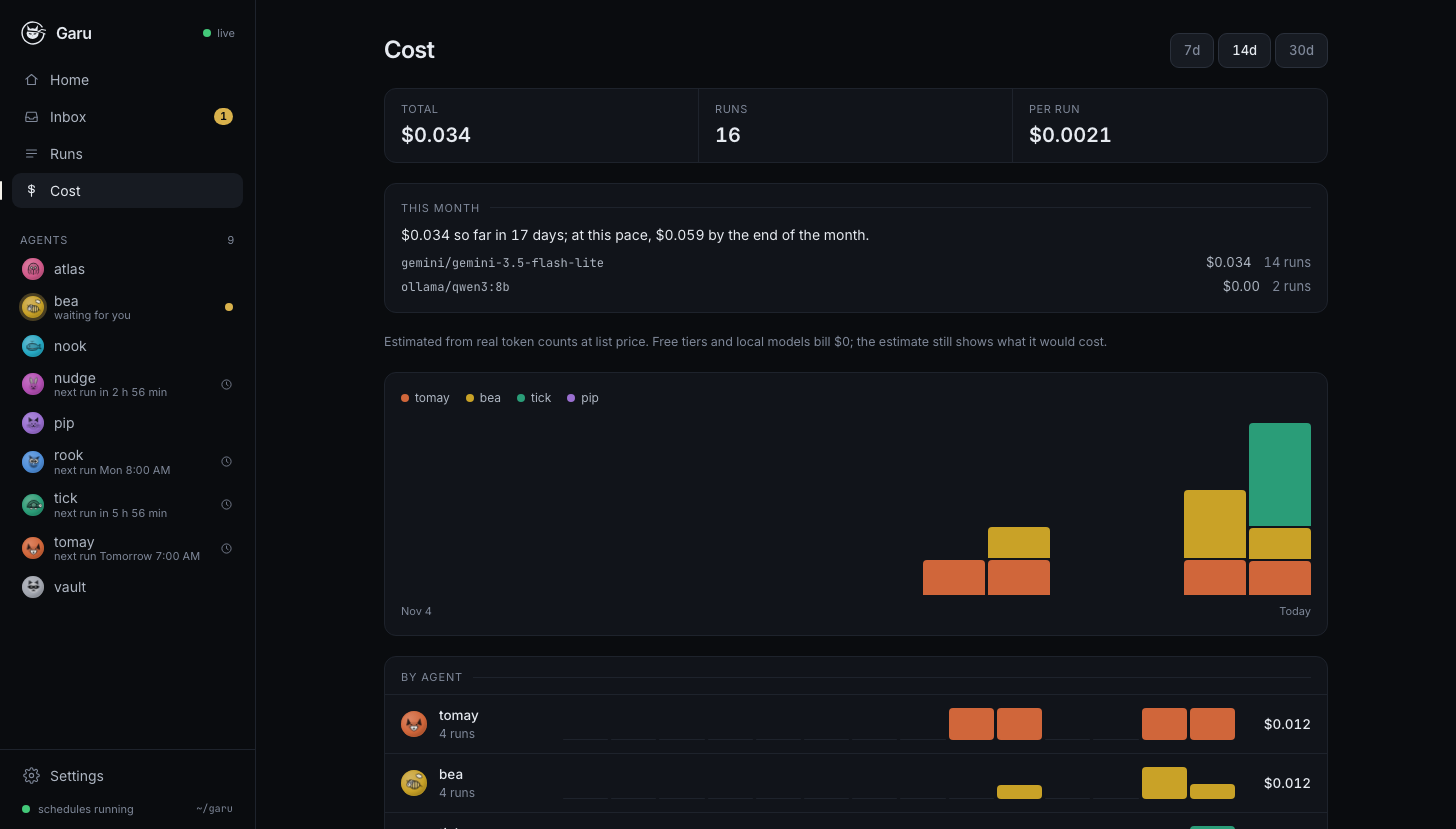
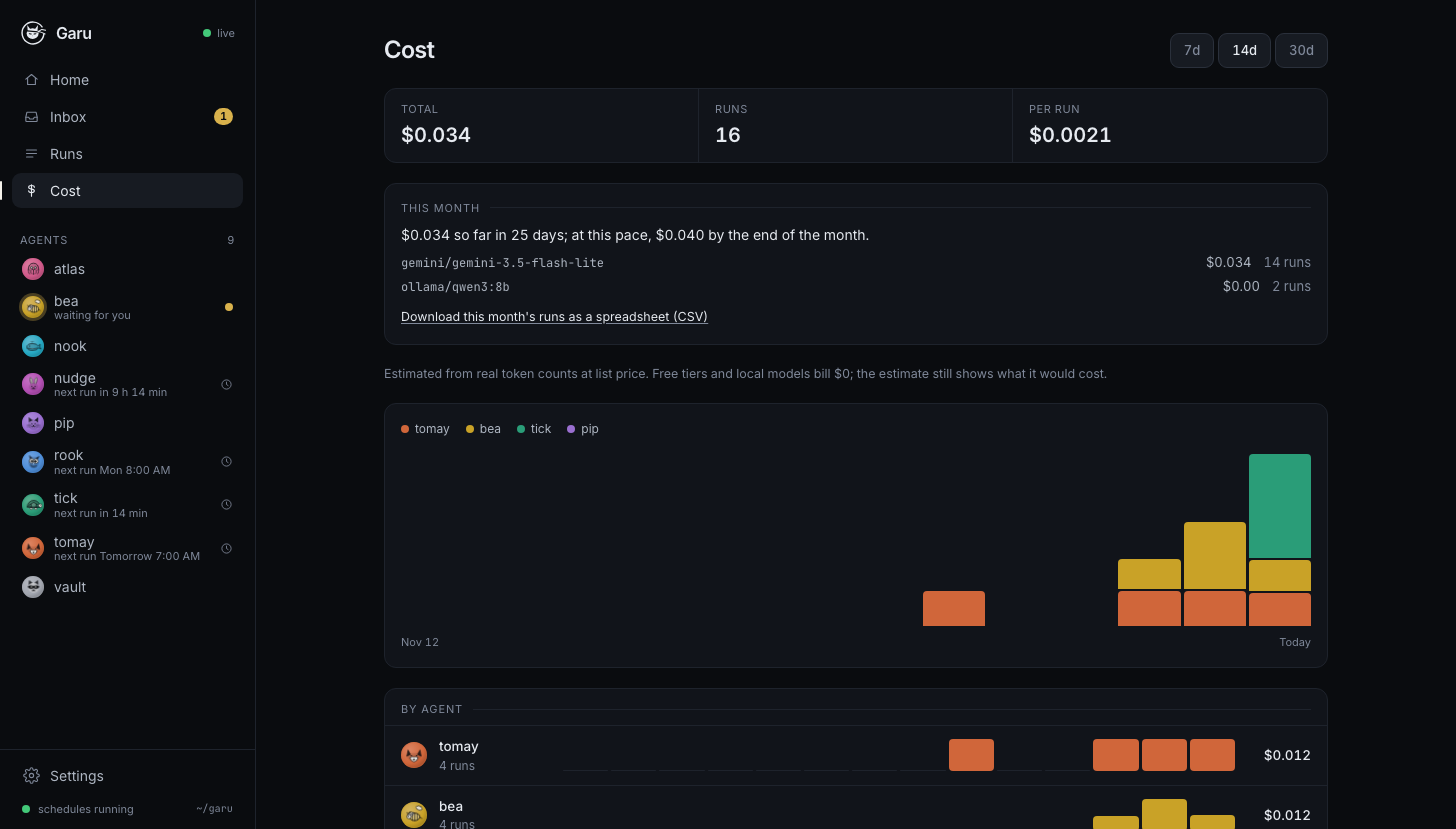
readme and site: what the page does now
Both READMEs tell what moved onto the page since the video: a new agent, its job, its
retirement, a call to try, rules that never win, the sign-in button, backups, the
month's budget and the sheet, the pushes, and "while you were away"; the command table
gains garu try and the roadmap paragraph catches up. The site's budget card mentions
the month. The README shots are retaken on today's build, with a new one of the New
agent page.

diff --git a/docs/index.es.html b/docs/index.es.html
@@ -195,7 +195,7 @@
     <div class="card"><div class="tag ask">ask</div><h3>Una bandeja, no una avalancha</h3><p>Cuando una regla dice preguntar, la ejecución se pausa. Ves el correo como un correo, el archivo como un archivo, el borrador como un borrador. Aprueba una vez, edita el borrador y aprueba tu versión, aprueba por 24 horas, o rechaza con una nota que el agente lee. El silencio es un no, y una ejecución que pregunta se aparca y te espera un día.</p></div>
     <div class="card"><div class="tag block">block</div><h3>Una política que aprende, contigo al mando</h3><p>Aprueba lo mismo tres veces y Garu propone la regla más estrecha que cubre exactamente lo que aprobaste, y la escribe en tu archivo cuando tú lo digas. Los comentarios se conservan.</p></div>
     <div class="card"><div class="tag">caja negra</div><h3>Una caja negra</h3><p>Cada turno del modelo, cada llamada a una herramienta, cada decisión y cada aprobación en un registro al que solo se agrega, un archivo por ejecución. Repasa cualquier ejecución como una línea de tiempo, en el navegador o con <code>garu log</code>, y cada ejecución dice por qué hizo eso: qué pasó, qué te preguntó, qué se bloqueó, qué la detuvo (<code>garu why</code>).</p></div>
-    <div class="card"><div class="tag">$ tope</div><h3>Un presupuesto en cada ejecución</h3><p>El costo se estima a partir de los tokens reales a precio de lista. Una ejecución se detiene en el momento en que cruzaría <code>maxCostUsd</code>. Los modelos locales cobran $0 y aun así muestran lo que habría costado.</p></div>
+    <div class="card"><div class="tag">$ tope</div><h3>Un presupuesto en cada ejecución</h3><p>El costo se estima a partir de los tokens reales a precio de lista. Una ejecución se detiene en el momento en que cruzaría <code>maxCostUsd</code>; el mes tiene su propio número, y el teléfono avisa al 80% y al 100%. Los modelos locales cobran $0 y aun así muestran lo que habría costado.</p></div>
     <div class="card"><div class="tag">aislado</div><h3>Cualquier modelo, en una caja</h3><p>Gemini en el nivel gratuito, Claude, Ollama en tu laptop, o cualquier cosa que hable la API de OpenAI: una línea para cambiar. Cada servidor de herramientas puede correr en su propio contenedor de Docker: sin red, raíz de solo lectura, solo la carpeta de trabajo del agente montada.</p></div>
   </div>
 </section>

diff --git a/docs/index.html b/docs/index.html
@@ -195,7 +195,7 @@
     <div class="card"><div class="tag ask">ask</div><h3>An inbox, not a firehose</h3><p>When a rule says ask, the run pauses. You see the email as an email, the file as a file, the draft as a draft. Approve once, edit the draft and approve your version, approve for 24 hours, or decline with a note the agent reads. Silence is a deny, and a run that asks parks and waits a day for you.</p></div>
     <div class="card"><div class="tag block">block</div><h3>Policy that learns, with you in control</h3><p>Approve the same thing three times and Garu proposes the narrowest rule that covers exactly what you approved, and writes it into your file when you say so. Comments preserved.</p></div>
     <div class="card"><div class="tag">recorder</div><h3>A flight recorder</h3><p>Every model turn, tool call, decision and approval in an append-only log, one file per run. Replay any run as a timeline, in the browser or with <code>garu log</code>, and every run says why it did that: what went through, what asked you, what was blocked, what stopped it (<code>garu why</code>).</p></div>
-    <div class="card"><div class="tag">$ cap</div><h3>A budget on every run</h3><p>Cost is estimated from real token counts at list price. A run stops the moment it would cross <code>maxCostUsd</code>. Local models bill $0 and still show what it would have cost.</p></div>
+    <div class="card"><div class="tag">$ cap</div><h3>A budget on every run</h3><p>Cost is estimated from real token counts at list price. A run stops the moment it would cross <code>maxCostUsd</code>; a month has its own number, with the phone told at 80% and 100%. Local models bill $0 and still show what it would have cost.</p></div>
     <div class="card"><div class="tag">sandbox</div><h3>Any model, in a box</h3><p>Gemini on the free tier, Claude, Ollama on your laptop, or anything that speaks the OpenAI API — one line to switch. Each tool server can run in its own Docker container: no network, read-only root, only the agent's workspace mounted.</p></div>
   </div>
 </section>

diff --git a/README.es.md b/README.es.md
@@ -265,6 +265,10 @@ La cabecera de la ejecución lleva un reloj honesto: "tardó 1 h 10 min, 59 min 
 
 Los agentes están ahí, además: cada cara se mueve a su manera (la abeja flota, la tortuga camina, el zorro respira, el conejo salta), un agente trabajando respira con un anillo girando a su alrededor, y uno que te espera toca a la puerta. La página de cada agente tiene dos frases para empezar sobre su caja de mensajes, de su propio trabajo, y en la computadora cambias ahí mismo su horario, sus topes, su libreta y sus reglas; el Garufile conserva tus comentarios. Ajustes tiene "Revisar esta computadora", `garu doctor` en un botón.
 
+Desde entonces la página se quedó con el resto. "Nuevo agente" pregunta lo que pregunta `garu new` (qué debe hacer, una cara, cuándo, qué modelo, qué puede tocar, los topes) y escribe el Garufile con su política cerrada; "Cambiar lo que hace" abre la descripción y el prompt; "Retirar" aparta a un agente conservando sus ejecuciones; "Probar una llamada" dice qué harían las reglas con una herramienta y sus argumentos y qué regla decide, y una regla que nunca puede ganar (una debajo de otra más amplia, o que nombra un servidor que el archivo no tiene) lo dice en el editor y en `garu doctor`. Desde el sexto día, un inicio de sesión de Google se renueva con un botón: Google se abre en una pestaña y vuelve solo. Ajustes hace una copia de `.garu` al momento y lista las más recientes con su descarga; la página de Costo muestra el mes frente a `GARU_MONTHLY_BUDGET_USD` y entrega las ejecuciones del mes como hoja de cálculo. El teléfono oye más que preguntas: una ejecución que se detuvo sola, una vez al día por agente con el motivo y un enlace; el 80% y el 100% del presupuesto del mes; un inicio de sesión por vencer. Y tras seis horas fuera, Inicio abre con lo que pasó mientras tanto: las ejecuciones que se detuvieron y las preguntas que vencieron.
+
+<p align="center"><img src="docs/screenshots/new-agent.png" alt="La página Nuevo agente: qué debe hacer, doce caras para elegir, un nombre, cuándo corre, qué modelo, qué puede tocar, los topes y una libreta" width="900"></p>
+
 <p align="center"><img src="docs/screenshots/why.png" alt="La página de una ejecución: la cabecera dice que tardó unos segundos, 40 minutos de ellos con la computadora dormida, y aparcada 3 horas esperando tu respuesta; debajo, por qué hizo eso: ocho llamadas pasaron por su cuenta, una preguntó y fue aprobada, una fue bloqueada" width="900"></p>
 
 ## Comandos
@@ -281,6 +285,7 @@ Los agentes están ahí, además: cada cara se mueve a su manera (la abeja flota
 | `garu grants [list\|revoke <id>]` | Permisos temporales. |
 | `garu log [agent] [run]` | Repasa una caja negra. |
 | `garu why <agent> [run]` | Por qué una ejecución hizo lo que hizo: qué pasó, qué te preguntó, qué se bloqueó, qué la detuvo. |
+| `garu try <agent> <servidor.herramienta> [json]` | Qué harían las reglas del agente con esa llamada, qué regla decide y por qué, sin ejecutar nada; y cualquier regla del archivo que nunca pueda ganar. |
 | `garu weekly [--post]` | La semana en números, por agente: ejecuciones, cómo terminaron, cuáles te preguntaron, lo que costó, notas recordadas. Con `GARU_WEEKLY_WEBHOOK_URL` en `.env`, la sala de control la publica en ese canal cada domingo a las seis; `--post` la envía ahora. |
 | `garu prune [--keep 90d] [--yes]` | Dice qué registros de ejecución, peticiones resueltas de la bandeja y mensajes de chat son más antiguos que la ventana, y los borra con `--yes`. `--prune 90d` en `garu ui` o `service install` lo hace una vez al día; una ejecución aparcada nunca se toca. Sin esto, todas las ejecuciones se guardan para siempre. |
 | `garu status` | El inicio, en la terminal: cada agente con qué hace, cuándo corre de nuevo, cómo fue su última ejecución y qué te espera. |
@@ -304,7 +309,7 @@ Garu tiene tres semanas de vida y ya ejecuta los agentes del autor todos los dí
 2. **Garu alojado:** agentes que siguen corriendo con la laptop cerrada, aprobar con un toque desde donde sea, pensado para la UE de forma predeterminada.
 3. Delegación entre agentes por A2A; memoria transparente y editable.
 
-Hecho desde el primer commit: Gmail y Google Calendar a través del servidor propio de Garu, con inicio de sesión para servidores locales; servidores MCP remotos (Streamable HTTP + OAuth), la app del teléfono por Tailscale con un token de inicio de sesión ([docs/phone.es.md](docs/phone.es.md)), la sala de control como app nativa para Android y iPhone ([docs/android.md](docs/android.md), [docs/ios.md](docs/ios.md)), `garu new`, personajes, rechazar con nota; después una libreta por agente, un tope de ejecuciones al día, preguntas que esperan un día mientras la ejecución se aparca, "Por qué hizo eso" en cada ejecución y en `garu why`, un reloj honesto (dormida, aparcada, empezó tarde), la nota del domingo, la limpieza, `garu doctor` y `garu status`, y un aviso cuando Tailscale deja de servir al teléfono.
+Hecho desde el primer commit: Gmail y Google Calendar a través del servidor propio de Garu, con inicio de sesión para servidores locales; servidores MCP remotos (Streamable HTTP + OAuth), la app del teléfono por Tailscale con un token de inicio de sesión ([docs/phone.es.md](docs/phone.es.md)), la sala de control como app nativa para Android y iPhone ([docs/android.md](docs/android.md), [docs/ios.md](docs/ios.md)), `garu new`, personajes, rechazar con nota; después una libreta por agente, un tope de ejecuciones al día, preguntas que esperan un día mientras la ejecución se aparca, "Por qué hizo eso" en cada ejecución y en `garu why`, un reloj honesto (dormida, aparcada, empezó tarde), la nota del domingo, la limpieza, `garu doctor` y `garu status`, y un aviso cuando Tailscale deja de servir al teléfono; después un agente nuevo, su trabajo, su retiro, una llamada de prueba y copias de seguridad desde la página, un inicio de sesión de Google renovado con un botón, avisos por una ejecución que se detuvo y por el presupuesto del mes, "mientras no estabas" en Inicio, y reglas que nunca ganan señaladas en el editor y por `garu try`.
 
 La app de Android está en prueba cerrada en Google Play desde el 2026-10-15 con doce probadores; la segunda solicitud de producción va después del 2026-11-15, con las respuestas de los probadores y la versión que salió de ellas. La app de iPhone corre en el simulador y espera una cuenta de desarrollador de Apple.
 

diff --git a/README.md b/README.md
@@ -262,6 +262,10 @@ The run's header keeps an honest clock: "took 1 h 10 min, 59 min of it with the 
 
 The agents are there, too: each face moves its own way (the bee hovers, the turtle plods, the fox breathes, the rabbit hops), an agent at work breathes with a ring circling it, and one waiting on you knocks. Each agent's page has two openers above its message box, from its own job, and on the desktop you change its schedule, its caps, its notebook and its rules right there; the Garufile keeps your comments. Settings has "Check this computer", `garu doctor` on a button.
 
+Since then the page took over the rest. "New agent" asks what `garu new` asks (what it should do, a face, when, which model, what it may touch, the caps) and writes the Garufile with its closed policy; "Change what it does" opens the description and the prompt; "Retire" moves an agent aside with its runs kept; "Try a call" says what the rules would do with a tool and arguments and which rule decides, and a rule that can never win (one under a broader rule, or naming a server the file doesn't have) says so in the editor and in `garu doctor`. From day six a Google sign-in renews with a button, Google opening in a tab and coming back on its own. Settings makes a backup of `.garu` on the spot and lists the newest with a download; the Cost page shows the month against `GARU_MONTHLY_BUDGET_USD` and hands the month's runs out as a spreadsheet. The phone hears more than asks: a run that stopped on its own, once a day per agent with the reason and a link; 80% and 100% of the month's budget; a sign-in about to end. And after six hours away, Home opens with what happened meanwhile: the runs that stopped and the asks that expired.
+
+<p align="center"><img src="docs/screenshots/new-agent.png" alt="The New agent page: what it should do, twelve faces to pick from, a name, when it runs, which model, what it may touch, the caps and a notebook" width="900"></p>
+
 <p align="center"><img src="docs/screenshots/why.png" alt="A run's page: the header says it took a few seconds, 40 minutes of it with the computer asleep, and parked 3 hours for your answer; below, why it did that: eight calls went through on their own, one asked and was approved, one was blocked" width="900"></p>
 
 ## Commands
@@ -278,6 +282,7 @@ The agents are there, too: each face moves its own way (the bee hovers, the turt
 | `garu grants [list\|revoke <id>]` | Temporary allows. |
 | `garu log [agent] [run]` | Replay a flight recorder. |
 | `garu why <agent> [run]` | Why a run did what it did: what went through, what asked you, what was blocked, what stopped it. |
+| `garu try <agent> <server.tool> [json]` | What the agent's rules would do with that call, which rule decides and why, without a run; and any rule in the file that can never win. |
 | `garu weekly [--post]` | The week in numbers, per agent: runs, how they ended, what asked you, what it cost, notes remembered. With `GARU_WEEKLY_WEBHOOK_URL` in `.env`, the control room posts it to that channel every Sunday at six; `--post` sends it now. |
 | `garu prune [--keep 90d] [--yes]` | Say which run logs, settled inbox requests and chat messages are older than the window, and delete them with `--yes`. `--prune 90d` on `garu ui` or `service install` does it once a day; a parked run is never touched. Without it, every run is kept forever. |
 | `garu status` | Home for the terminal: every agent with what it's doing, when it runs next, how its last run went, and what's waiting on you. |
@@ -301,7 +306,7 @@ Garu is three weeks old and already runs the author's own agents every day. Expe
 2. **Hosted Garu:** agents that keep running when your laptop is closed, tap-to-approve from anywhere, EU-friendly by default.
 3. Delegation between agents over A2A; transparent, editable memory.
 
-Done since the first commit: Gmail and Google Calendar through Garu's own server, with sign-in for local servers; remote MCP servers (Streamable HTTP + OAuth), the phone app over Tailscale with a sign-in token ([docs/phone.md](docs/phone.md)), the control room as a native app for Android and iPhone ([docs/android.md](docs/android.md), [docs/ios.md](docs/ios.md)), `garu new`, personas, decline-with-a-note; then a notebook per agent, a cap on runs a day, asks that wait a day while the run parks, "Why it did that" on every run and in `garu why`, an honest clock (asleep, parked, started late), the Sunday note, pruning, `garu doctor` and `garu status`, and a notice when Tailscale stops serving the phone.
+Done since the first commit: Gmail and Google Calendar through Garu's own server, with sign-in for local servers; remote MCP servers (Streamable HTTP + OAuth), the phone app over Tailscale with a sign-in token ([docs/phone.md](docs/phone.md)), the control room as a native app for Android and iPhone ([docs/android.md](docs/android.md), [docs/ios.md](docs/ios.md)), `garu new`, personas, decline-with-a-note; then a notebook per agent, a cap on runs a day, asks that wait a day while the run parks, "Why it did that" on every run and in `garu why`, an honest clock (asleep, parked, started late), the Sunday note, pruning, `garu doctor` and `garu status`, and a notice when Tailscale stops serving the phone; then a new agent, its job, its retirement, a call to try and backups from the page, a Google sign-in renewed with a button, pushes for a run that stopped and for the month's budget, "while you were away" on Home, and rules that never win named in the editor and by `garu try`.
 
 The Android app is in closed testing on Google Play since 2026-10-15 with twelve testers; the second application for production goes in after 2026-11-15, with the testers' replies and the build that came from them. The iPhone app runs in the Simulator and waits for an Apple developer account.
 
